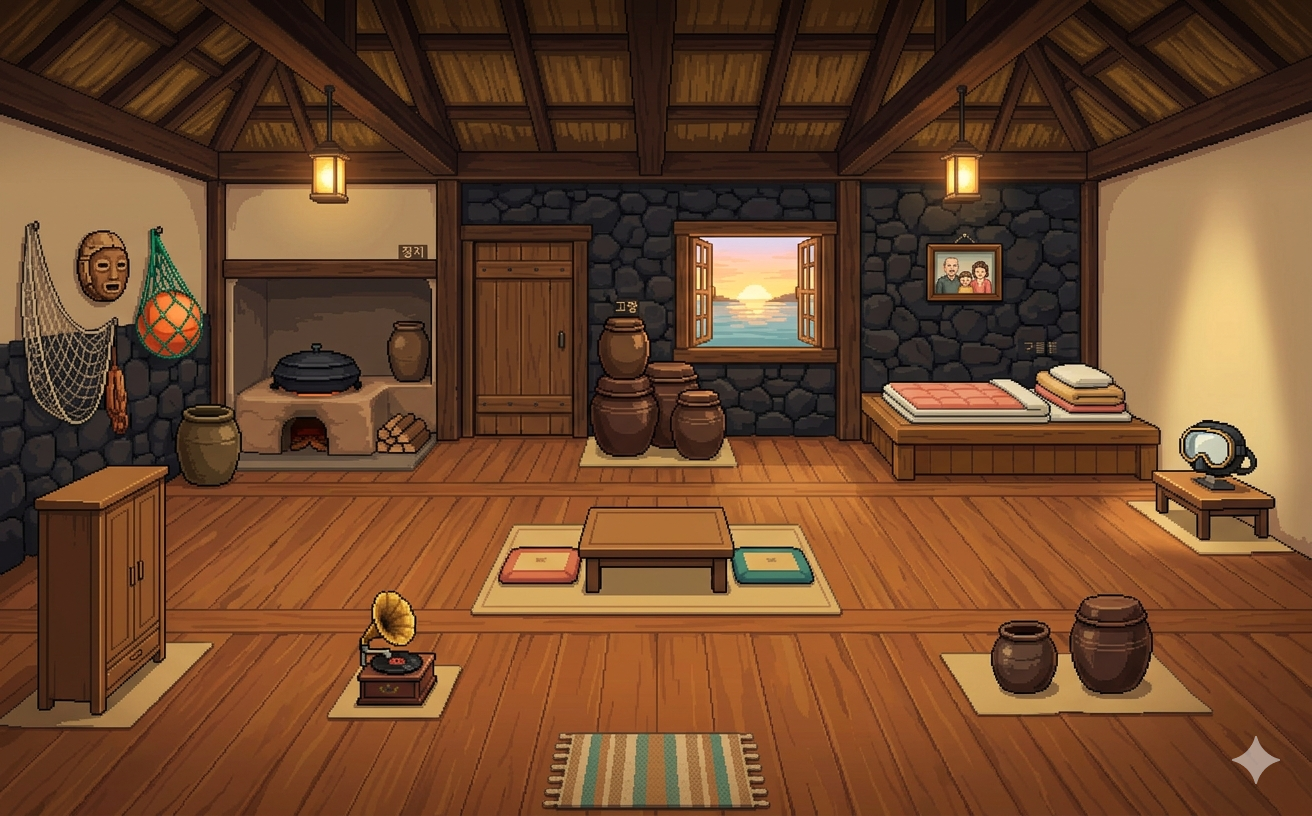
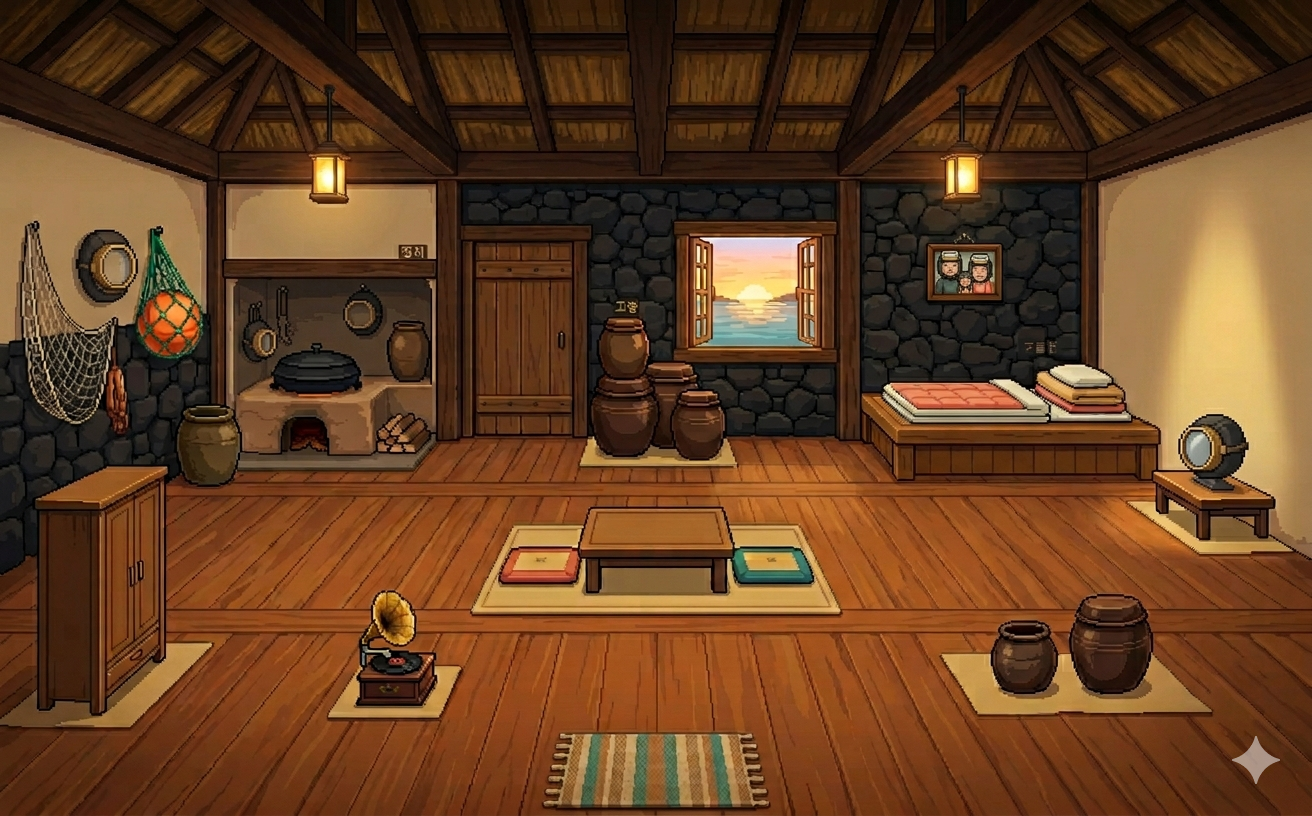
Home: new background art; scale player to match; fix ramen + stuck-after-eat
- Swap in the refined Dave-the-Diver home-bg.png (same layout, so the
  hotspots still line up); cache-bust to v=2.
- Scale the player ~1.34x in the home so she reads at the right size
  against the larger furniture (the size mismatch the player noticed).
- Eat stand-point (tableStation) moved below the table's no-walk block,
  so finishing a meal no longer leaves you stuck inside the table.
- Align the eating-scene bowl to the same table-top point as the waiting
  bowl (HOME_TABLETOP) so the ramen sits on the table, and raise the
  slurp target for the scaled-up diver.

Verified: hotspots aligned on the new art, all reachable + correct
prompts, after-eat stuck:false/canMove:true, no errors. Bump game.js
v=60, render v=64.

diff --git a/haenyeo/render-atashinchi.js b/haenyeo/render-atashinchi.js
@@ -3647,7 +3647,7 @@ let homeImg=null, homeImgTried=false;
 function ensureHomeImg(){ if(homeImgTried)return; homeImgTried=true;
   const im=new Image();
   im.onload=()=>{ if(im.decode){ im.decode().catch(()=>{}).then(()=>{homeImg=im;}); } else { homeImg=im; } };
-  im.src='home-bg.png?v=1'; }
+  im.src='home-bg.png?v=2'; }
 // live-overlay anchors tuned to the home-bg.png art
 const HOME_CAULDRON={x:206, y:224};   // 정지 iron cauldron — steam rises here
 const HOME_TABLETOP={x:480, y:408};   // dining table top — plated bowl sits here
@@ -3673,7 +3673,10 @@ function drawHome(){
     ctx.restore();
     drawRamenBowl(ctx,bx,by);
   }
+  // the diver — scaled up a touch so she reads at the right size against the larger furniture
+  ctx.save(); const HS=1.34, fy=P.y+16; ctx.translate(P.x,fy); ctx.scale(HS,HS); ctx.translate(-P.x,-fy);
   drawPerson(P.x,P.y,{skin:'#eccaa2',scarf:MIN.gold,face:P.face,moving:P.moving,phase:P.anim,player:true,modern:(typeof G!=='undefined'&&G.suit==='modern')});
+  ctx.restore();
   ctx.save();ctx.fillStyle='rgba(255,196,120,.05)';ctx.fillRect(0,0,W,H);ctx.restore();   // gentle warm wash
   // music notes drifting up from the gramophone while it plays
   if(typeof musicOn!=='undefined' && musicOn){
@@ -3703,7 +3706,7 @@ function drawHomeDebug(){
 function drawEat(){
   drawHome();
   const t=performance.now()*0.001;
-  const bx=homeTable.x+homeTable.w/2, by=homeTable.y+30;
+  const bx=HOME_TABLETOP.x, by=HOME_TABLETOP.y;
   ctx.save();ctx.fillStyle='rgba(20,16,10,.3)';ctx.fillRect(0,0,W,H);ctx.restore();
   ctx.save();ctx.globalCompositeOperation='screen';
   const sp=ctx.createRadialGradient(bx,by,8,bx,by,150);sp.addColorStop(0,'rgba(255,212,134,.28)');sp.addColorStop(1,'rgba(255,212,134,0)');
@@ -3714,7 +3717,7 @@ function drawEat(){
   ctx.restore();
   drawRamenBowl(ctx,bx,by);
   const cyc=(Math.sin(eatT*5)*0.5+0.5);
-  const mouthX=P.x+6, mouthY=P.y-22;
+  const mouthX=P.x+6, mouthY=P.y-34;
   const clumpX=bx+(mouthX-bx)*cyc, clumpY=(by-6)+(mouthY-(by-6))*cyc;
   ctx.strokeStyle=MIN.gold;ctx.lineWidth=1.6;ctx.lineCap='round';
   for(let s=-1;s<=1;s++){ctx.beginPath();ctx.moveTo(bx+s*3,by-4);ctx.quadraticCurveTo(clumpX+s*2,(by-4+clumpY)/2,clumpX+s*2,clumpY);ctx.stroke();}

diff --git a/haenyeo/index.html b/haenyeo/index.html
@@ -737,8 +737,8 @@
   <div class="toast" id="toast"></div>
 </div></div>
 
-<script src="game.js?v=59"></script>
-<script src="render-atashinchi.js?v=63"></script>
+<script src="game.js?v=60"></script>
+<script src="render-atashinchi.js?v=64"></script>
 <script src="restaurant.js?v=8"></script>
 <script src="phone.js?v=2"></script>
 <script src="music.js"></script>

diff --git a/haenyeo/game.js b/haenyeo/game.js
@@ -920,7 +920,7 @@ const homeTable={x:428, y:398, w:112, h:46};   // low dining table (center foreg
 const gudeulBlk={x:626, y:252, w:236, h:98};   // 구들방 — raised sleeping platform (right)
 const stoveStation   ={x:212, y:384};          // cook at the hearth
 const gopangStation  ={x:458, y:372};          // store catch in the 고팡
-const tableStation   ={x:484, y:434};          // eat a plated meal
+const tableStation   ={x:484, y:472};          // eat a plated meal (below the table block, so you're never stuck)
 const photoStation   ={x:632, y:360};          // family photo on the wall
 const bedStation     ={x:748, y:362};          // sleep on the folded bedding
 const maskStation    ={x:892, y:392};          // grandmother's 왕눈 mask on the low table